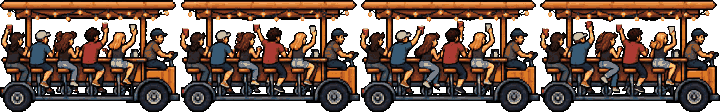
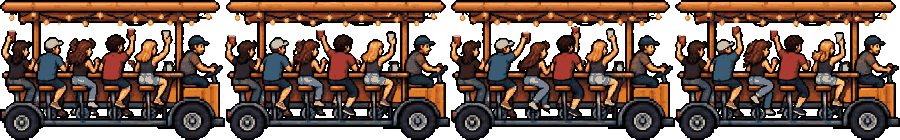
Add the stroller, oncoming streetcar, scooter colors, bigger pedal wagon
- A woman pushing a jogging stroller walks toward Mothbun; jump her, or glare
  and she stops short. Drawn at the scooter's scale.
- The streetcar now drives toward Mothbun (art mirrored in code), rings its bell
  well before it arrives, and never comes right before or after a wagon.
- Scooters come in four color variants (scooter, jacket, pants), built by
  clean_vehicles.py.
- Pedal wagon 25% larger, roof now 140 px up. Fewer wagons overall.
- Finale fireworks draw behind the buildings.

diff --git a/src/world.ts b/src/world.ts
@@ -1,25 +1,30 @@
+import type { VehicleName } from './assets';
 import { TUNING as T } from './tuning';
 
 // Vehicles and light orbs. Positions are in world x (the camera scrolls right).
-// Scooter riders come at Mothbun; pedal wagons and the streetcar roll the same way he
-// runs, only slower, and their roofs are platforms he can land on. Running into any of
-// them costs a life.
+// Scooter riders, strollers, and the streetcar come at Mothbun; pedal wagons roll the same way he
+// runs, only slower. Wagon and streetcar roofs are platforms he can land on. Running
+// into any of them costs a life.
 
-export type VehicleKind = 'scooter' | 'wagon' | 'streetcar';
+export type VehicleKind = 'scooter' | 'stroller' | 'wagon' | 'streetcar';
 
 interface KindSpec {
-  sprite: 'scooter' | 'pedal-wagon' | 'streetcar';
+  sprite: VehicleName;
   hx: number; // hitbox left edge, from the sprite's left edge
   w: number;
   h: number; // hitbox height; for platforms this is the roof height
   vx: number; // world speed, positive is the same way Mothbun runs
+  margin: number; // how far past the right edge it appears
   platform: boolean;
 }
 
 export const KINDS: Record<VehicleKind, KindSpec> = {
-  scooter: { sprite: 'scooter', hx: 10, w: 56, h: 96, vx: -T.scooterSpeed, platform: false },
-  wagon: { sprite: 'pedal-wagon', hx: 0, w: 180, h: 112, vx: T.wagonSpeed, platform: true },
-  streetcar: { sprite: 'streetcar', hx: 4, w: 566, h: 124, vx: T.streetcarSpeed, platform: true },
+  scooter: { sprite: 'scooter', hx: 10, w: 56, h: 96, vx: -T.scooterSpeed, margin: 60, platform: false },
+  // the glare stops her short instead of knocking her over
+  stroller: { sprite: 'stroller', hx: 6, w: 78, h: 84, vx: -T.strollerSpeed, margin: 60, platform: false },
+  wagon: { sprite: 'pedal-wagon', hx: 0, w: 225, h: 140, vx: T.wagonSpeed, margin: 60, platform: true },
+  // appears well off screen so its bell rings before it arrives
+  streetcar: { sprite: 'streetcar', hx: 4, w: 566, h: 124, vx: -T.streetcarSpeed, margin: 700, platform: true },
 };
 
 export interface Obstacle {
@@ -29,6 +34,7 @@ export interface Obstacle {
   hit: boolean; // ran into it; it turns see-through and harmless
   stunned: number; // seconds since the glare hit it, or -1
   warned: boolean; // streetcar bell rung
+  variant: number; // color variant row in the sprite strip
 }
 
 export interface Orb {
@@ -53,6 +59,8 @@ export class World {
   private nextKind: VehicleKind = 'scooter';
   private sinceStreetcar = 0;
 
+  constructor(private variants: (kind: VehicleKind) => number) {}
+
   reset(startX: number) {
     this.obstacles = [];
     this.orbs = [];
@@ -66,7 +74,7 @@ export class World {
     for (const o of this.obstacles) {
       if (o.stunned >= 0) {
         o.stunned += dt;
-        o.vx *= Math.max(0, 1 - dt * 3); // the scooter skids to a stop
+        o.vx *= Math.max(0, 1 - dt * 3); // skids or stops short
       }
       o.x += o.vx * dt;
     }
@@ -75,7 +83,7 @@ export class World {
       // spawn once the vehicle would be just off the right edge when placed on course
       const t = (this.nextMeet - px) / speed;
       const x = this.nextMeet - k.vx * t - k.hx;
-      if (x > camX + viewW + 60) break;
+      if (x > camX + viewW + k.margin) break;
       this.spawn(x, speed, difficulty);
     }
     const gone = camX - 700;
@@ -86,7 +94,8 @@ export class World {
   private spawn(x: number, speed: number, difficulty: number) {
     const kind = this.nextKind;
     const k = KINDS[kind];
-    this.obstacles.push({ kind, x, vx: k.vx, hit: false, stunned: -1, warned: false });
+    const variant = Math.floor(Math.random() * this.variants(kind));
+    this.obstacles.push({ kind, x, vx: k.vx, hit: false, stunned: -1, warned: false, variant });
 
     // how far Mothbun runs while passing it (long for slow platforms he rides across)
     const pass = (k.w * speed) / (speed - k.vx);
@@ -107,13 +116,16 @@ export class World {
     const gap = speed * (1.3 - 0.35 * difficulty) + Math.random() * speed * 1.4;
     this.nextMeet = m + pass + gap;
 
+    // The streetcar drives toward Mothbun and wagons drive away, so they would pass
+    // through each other: never put one right before or after the other.
     this.sinceStreetcar++;
     const roll = Math.random();
-    if (difficulty > 0.15 && this.sinceStreetcar > 6 && roll < 0.2) {
+    if (kind !== 'wagon' && kind !== 'streetcar' && difficulty > 0.15 && this.sinceStreetcar > 6 && roll < 0.2) {
       this.nextKind = 'streetcar';
       this.sinceStreetcar = 0;
     } else {
-      this.nextKind = difficulty > 0.08 && roll < 0.45 ? 'wagon' : 'scooter';
+      const walker = Math.random() < 0.35 ? 'stroller' : 'scooter';
+      this.nextKind = kind !== 'streetcar' && difficulty > 0.08 && roll < 0.35 ? 'wagon' : walker;
     }
   }
 }

diff --git a/src/main.ts b/src/main.ts
@@ -39,7 +39,7 @@ const ctx = canvas.getContext('2d')!;
 const input = new Input(canvas, zoneAt);
 const sound = new Sound();
 const player = new Player();
-const world = new World();
+const world = new World((kind) => assets.vehicles[KINDS[kind].sprite].variants ?? 1);
 input.onGesture = () => sound.unlock();
 
 let assets: Assets;
@@ -178,18 +178,18 @@ function updateRun(dt: number) {
   if (player.update(dt, input, speed, floor)) sound.jump();
 
   for (const o of world.obstacles) {
-    if (o.kind === 'streetcar' && !o.warned && o.x - camX < W + 80) {
+    if (o.kind === 'streetcar' && !o.warned && o.x - camX < W + KINDS.streetcar.margin + 20) {
       o.warned = true;
       sound.bell();
     }
   }
 
-  // glare beam knocks scooter riders off; it does nothing to the big vehicles
+  // glare beam knocks scooter riders off and stops strollers; it does nothing to the big vehicles
   if (player.glareT > 0) {
     const x0 = px + Player.EYE.x, x1 = x0 + T.glareRange;
     const ey = player.y + Player.EYE.y;
     for (const o of world.obstacles) {
-      if (o.kind !== 'scooter' || o.hit || o.stunned >= 0) continue;
+      if (KINDS[o.kind].platform || o.hit || o.stunned >= 0) continue;
       const h = hitbox(o);
       if (h.x0 < x1 && h.x1 > x0 && ey - T.glareHeight / 2 < h.top) {
         o.stunned = 0;
@@ -277,14 +277,15 @@ function autopilot() {
   const ahead = world.obstacles
     .filter((o) => !o.hit && o.stunned < 0 && hitbox(o).x1 > px + Player.BODY.left)
     .sort((a, b) => hitbox(a).x0 - hitbox(b).x0);
-  const scooter = ahead.find((o) => o.kind === 'scooter' && hitbox(o).x0 - px < 260);
+  const scooter = ahead.find((o) => !KINDS[o.kind].platform && hitbox(o).x0 - px < 260);
   if (scooter && player.grounded && player.y === 0) input.queueGlare();
   // jump scooters when the glare is cooling down, and jump onto roofs ahead
-  const next = ahead.find((o) => o.kind !== 'scooter' || (player.glareCd > 0 && player.glareT <= 0));
+  const next = ahead.find((o) => KINDS[o.kind].platform || (player.glareCd > 0 && player.glareT <= 0));
   // seconds until it reaches him, counting its own speed
   const eta = next ? (hitbox(next).x0 - px - Player.BODY.right) / (speed - next.vx) : Infinity;
   const onIt = next ? player.y >= KINDS[next.kind].h : false;
-  if (player.grounded) input.set(!onIt && eta > 0 && eta < (next?.kind === 'streetcar' ? 0.42 : 0.3));
+  const jumpAt = { scooter: 0.3, stroller: 0.3, wagon: 0.38, streetcar: 0.35 }[next?.kind ?? 'scooter'];
+  if (player.grounded) input.set(!onIt && eta > 0 && eta < jumpAt);
   else input.set(player.vy > 0);
 }
 
@@ -295,6 +296,7 @@ function draw() {
   if (shake > 0) ctx.translate(Math.round((Math.random() - 0.5) * 8 * shake), Math.round((Math.random() - 0.5) * 6 * shake));
   drawSky();
   drawSkyline();
+  drawSparks(); // fireworks go off behind the buildings
   drawRowhouses();
   for (const p of pieces) drawPiece(p);
   drawStreet();
@@ -304,7 +306,6 @@ function draw() {
   }
   drawPlayer();
   drawBeam();
-  drawSparks();
   ctx.restore();
 
   if (state === 'title') drawTitle();
@@ -454,10 +455,21 @@ function drawObstacle(o: Obstacle) {
   if (x > W || x + fw < 0) return;
   let f: number;
   if (o.kind === 'scooter') f = o.stunned >= 0 ? 4 : Math.floor(time * 8) % 4;
+  else if (o.kind === 'stroller') f = o.stunned >= 0 ? 4 : Math.floor(time * 6) % 4;
   else if (o.kind === 'wagon') f = Math.floor(time * 6) % 4;
   else f = Math.floor(time * 3) % 2;
-  ctx.globalAlpha = o.hit ? 0.35 : o.stunned > 1.2 ? Math.max(0, 1 - (o.stunned - 1.2) * 2) : 1;
-  ctx.drawImage(strip.img, f * fw, 0, fw, fh, x, ground - fh, fw, fh);
+  ctx.globalAlpha = o.hit ? 0.35 : o.kind === 'scooter' && o.stunned > 1.2 ? Math.max(0, 1 - (o.stunned - 1.2) * 2) : 1;
+  const sy = o.variant * fh;
+  if (o.vx < 0 && o.kind === 'streetcar') {
+    // the art faces right; mirror it so it drives toward Mothbun
+    ctx.save();
+    ctx.translate(x + fw, 0);
+    ctx.scale(-1, 1);
+    ctx.drawImage(strip.img, f * fw, sy, fw, fh, 0, ground - fh, fw, fh);
+    ctx.restore();
+  } else {
+    ctx.drawImage(strip.img, f * fw, sy, fw, fh, x, ground - fh, fw, fh);
+  }
   ctx.globalAlpha = 1;
 }
 

diff --git a/src/assets.ts b/src/assets.ts
@@ -17,7 +17,7 @@ export interface BuildingArt {
 export const BUILDINGS = ['music-hall', 'mother-of-god', 'museum-center'] as const;
 export type BuildingName = (typeof BUILDINGS)[number];
 
-export const VEHICLES = ['scooter', 'pedal-wagon', 'streetcar'] as const;
+export const VEHICLES = ['scooter', 'pedal-wagon', 'streetcar', 'stroller'] as const;
 export type VehicleName = (typeof VEHICLES)[number];
 
 // A strip of equal-width frames, side by side.
@@ -26,6 +26,7 @@ export interface Strip {
   frameWidth: number;
   frameHeight: number;
   frames: number;
+  variants?: number; // color variants, one row each
 }
 
 export interface Assets {

diff --git a/src/tuning.ts b/src/tuning.ts
@@ -20,8 +20,9 @@ export const TUNING = {
 
   // vehicles (world speed; the camera runs at the run speed above)
   scooterSpeed: 130, // toward Mothbun
-  wagonSpeed: 70, // same way he runs, so he catches up and rides across the roof
-  streetcarSpeed: 110,
+  strollerSpeed: 50, // toward Mothbun, walking
+  wagonSpeed: 70, // same way he runs, so he catches up and runs across the roof
+  streetcarSpeed: 90, // toward Mothbun, so a ride on its roof is short
 
   // red-eye glare
   glareDuration: 0.3,

diff --git a/tools/clean_vehicles.py b/tools/clean_vehicles.py
@@ -4,15 +4,61 @@ from scipy import ndimage as nd
 # frames at the green gaps, scaled so frame 1 is `height` art px tall, palette-reduced,
 # and lightly night-graded with lit pixels (string lights, windows, headlights) kept bright.
 # Writes assets/vehicles/<name>.png (frames side by side, bottoms aligned) plus a JSON.
+# The scooter gets extra rows: color variants of the scooter, jacket, and pants.
+
+import colorsys
+def hsv(rgb):
+    f=np.vectorize(lambda r,g,b:colorsys.rgb_to_hsv(r/255,g/255,b/255),otypes=[float,float,float])
+    return np.stack(f(rgb[...,0],rgb[...,1],rgb[...,2]),-1)
+def from_hsv(h,s,v):
+    f=np.vectorize(lambda h,s,v:colorsys.hsv_to_rgb(h,s,v),otypes=[float,float,float])
+    return np.stack(f(h,s,v),-1)*255
+# (scooter rgb or None, jacket hue/sat or None, pants hue/sat/value scale or None)
+SCOOTER_VARIANTS=[
+    (None,None,None),                                  # as drawn: dark scooter, olive jacket, jeans
+    ((120,200,40),(0.0,0.62),(0.62,0.15,0.55)),        # lime scooter, red jacket, dark pants
+    ((240,120,30),(0.50,0.55),(0.58,0.35,1.25)),       # orange scooter, teal jacket, light jeans
+    ((200,205,215),(0.78,0.45),(0.10,0.30,1.35)),      # white scooter, purple jacket, khakis
+]
+def scooter_variant(rgb,alpha,FW,ride_frames,spec):
+    sc,jk,pt=spec
+    out=rgb.copy()
+    if sc is None: return out
+    H=rgb.shape[0]; X=hsv(rgb); h,s,v=X[...,0]*360,X[...,1],X[...,2]
+    yy,xx=np.mgrid[0:H,0:rgb.shape[1]]; fx=xx%FW; fr=xx//FW
+    ride=fr<ride_frames
+    # jacket, kept away from the shoes (low in the ride frames, left in the wipeout)
+    jacket=alpha&(h>38)&(h<68)&(s>0.12)&(v>0.15)&(v<0.6)&np.where(ride,yy<H*0.55,fx>=55)
+    pants=alpha&(h>195)&(h<212)&(s>0.5)&(v>0.25)
+    # scooter: dark blue-gray metal along the deck and wheels, and the stem at the front
+    low=np.where(fr<ride_frames,H*0.85,H*0.77); stem=np.where(fr<ride_frames,18,12)
+    metal=alpha&(v>0.06)&(v<0.45)&(((h>190)&(h<235))|(s<0.2))&((yy>=low)|((fx<=stem)&(yy>=H*0.36)))  # stem starts below the phone
+    out[jacket]=from_hsv(np.full(jacket.sum(),jk[0]),np.full(jacket.sum(),jk[1]),v[jacket])
+    out[pants]=from_hsv(np.full(pants.sum(),pt[0]),np.full(pants.sum(),pt[1]),np.clip(v[pants]*pt[2],0,1))
+    out[metal]=np.clip(np.array(sc)[None,:]*(v[metal]/0.3)[:,None],0,255)
+    return out
+
 CHAR_H=86
 specs={
-    # name: (target height of frame 1 in art px, night grade strength)
+    # name: (target height of frame 1 in art px, or another sheet to match the scale of; night grade strength)
     'scooter':(104,0.35),     # rider about the drawn rabbit's height so a full jump clears it
-    'pedal-wagon':(112,0.6),  # canopy roof low enough to land on from a jump
-    'streetcar':(180,0.6),    # includes the pantograph; the roof sits about 132 px up
+    'pedal-wagon':(140,0.6),  # canopy roof still low enough to land on from a full jump
+    'streetcar':(180,0.6),
+    'stroller':('scooter',0.35),  # drawn at the scooter's scale so the two people match    # includes the pantograph; the roof sits about 132 px up
 }
+def frame1_height(name):
+    im=np.array(Image.open(f'raw/{name}.png').convert('RGB')).astype(int)
+    r,g,b=im[...,0],im[...,1],im[...,2]
+    a=nd.binary_opening(~((g>140)&(g>r+50)&(g>b+50)),iterations=1)
+    cols=np.where(a.any(0))[0]; gaps=np.where(np.diff(cols)>20)[0]
+    end=cols[gaps[0]]+1 if len(gaps) else cols[-1]+1
+    ys=np.where(a[:,cols[0]:end].any(1))[0]
+    return ys.max()+1-ys.min()
+all_specs=dict(specs)
 if len(sys.argv)>1: specs={k:v for k,v in specs.items() if k in sys.argv[1:]}
 for name,(target,grade) in specs.items():
+    if isinstance(target,str):  # match another sheet's raw-to-art scale
+        target=all_specs[target][0]*frame1_height(name)/frame1_height(target)
     im=np.array(Image.open(f'raw/{name}.png').convert('RGB')).astype(float)
     r,g,b=im[...,0],im[...,1],im[...,2]
     a=~((g>140)&(g>r+50)&(g>b+50))
@@ -47,10 +93,12 @@ for name,(target,grade) in specs.items():
     q=Image.fromarray(np.uint8(np.clip(rgb,0,255))).quantize(colors=48,method=Image.Quantize.MEDIANCUT).convert('RGB')
     rgb=np.array(q).astype(float)
     Image.fromarray(np.dstack([rgb,alpha*255]).astype(np.uint8),'RGBA').save(f'assets/vehicles/day/{name}.png')
+    variants=SCOOTER_VARIANTS if name=='scooter' else [(None,None,None)]
+    rgb=np.concatenate([scooter_variant(rgb,alpha,FW,4,v) for v in variants]); alpha=np.concatenate([alpha]*len(variants))
     R,G,B=rgb[...,0],rgb[...,1],rgb[...,2]
     lit=(R>170)&(G>110)&(R>B+70)
     night=rgb*np.array([0.55,0.55,0.8])+np.array([8,6,22])
     ng=np.where(lit[...,None],rgb,rgb*(1-grade)+night*grade)
     Image.fromarray(np.dstack([np.clip(ng,0,255),alpha*255]).astype(np.uint8),'RGBA').save(f'assets/vehicles/{name}.png')
-    json.dump({'frameWidth':FW,'frameHeight':H,'frames':len(frames)},open(f'assets/vehicles/{name}.json','w'))
+    json.dump({'frameWidth':FW,'frameHeight':H,'frames':len(frames),'variants':len(variants)},open(f'assets/vehicles/{name}.json','w'))
     print(name,len(frames),'frames',FW,'x',H)

diff --git a/CLAUDE.md b/CLAUDE.md
@@ -56,7 +56,7 @@ Requires Python with Pillow, NumPy, and SciPy.
 
 - Auto-runner (confirmed): world scrolls on its own. Built for one-thumb phone play.
 - Jump (tap), glide (hold, using the spread-wing frame), red-eye glare attack (code-drawn red beam that stuns).
-- Obstacles are Cincinnati street annoyances, nothing else: e-scooter riders coming at Mothbun (jump them, or glare to wipe them out), pedal wagons and the streetcar rolling the same way he runs but slower (land on the roof and ride across; running into any vehicle costs a life, and the glare does nothing to them). The streetcar is rare and rings its bell as it comes on screen.
+- Obstacles are Cincinnati street annoyances, nothing else: e-scooter riders coming at Mothbun (jump them, or glare to wipe them out), a woman pushing a jogging stroller toward him (jump, or glare and she stops short, startled; drawn at the scooter's scale via `'stroller':('scooter',...)` in `clean_vehicles.py`; the green water bottle keys out to an outline), pedal wagons rolling the same way he runs but slower, and the streetcar driving toward him (land on either roof and run across; running into any vehicle costs a life, and the glare does nothing to them). The streetcar is rare and rings its bell as it comes on screen.
 - Collect glowing light orbs from projections. Level ends at Mother of God Church with a final projection show.
 
 ## Status
@@ -96,7 +96,7 @@ Stage 2 done:
 - Glare button enlarged (radius 42 art px, generous hit area) with a GLARE label for the first seconds of a run.
 
 - Mothbun drawn at `playerScale` (1.25x the sheet, in `src/tuning.ts`); hitbox and eye scale with it.
-- Vehicle sprites cleaned by `tools/clean_vehicles.py` from `raw/scooter.png`, `raw/pedal-wagon.png`, `raw/streetcar.png` into `assets/vehicles/` (frame strips plus JSON, night-graded, day versions in `day/`). In the game: scooter (4 ride frames + wipeout), pedal wagon (roof 112 px up), streetcar (roof 124 px up). Hitboxes, roof heights, and which ones are platforms are in `KINDS` in `src/world.ts`; speeds are in `src/tuning.ts`. The world plans each vehicle by where Mothbun will meet it and spawns it off screen accordingly, since vehicles move. `Player.update` takes a `floor` (roof height he's on or above).
+- Vehicle sprites cleaned by `tools/clean_vehicles.py` from `raw/scooter.png`, `raw/pedal-wagon.png`, `raw/streetcar.png` into `assets/vehicles/` (frame strips plus JSON, night-graded, day versions in `day/`). In the game: scooter (4 ride frames + wipeout, 4 color variants as rows, made by `clean_vehicles.py`), pedal wagon (roof 140 px up), streetcar (roof 124 px up, art faces right so it's mirrored in code). A streetcar never comes right before or after a wagon, since they'd drive through each other. Finale fireworks are drawn behind the buildings. Hitboxes, roof heights, and which ones are platforms are in `KINDS` in `src/world.ts`; speeds are in `src/tuning.ts`. The world plans each vehicle by where Mothbun will meet it and spawns it off screen accordingly, since vehicles move. `Player.update` takes a `floor` (roof height he's on or above).
 - The placeholder goose, cryptid hunter, and moth swarm are gone.
 
 Still needed:
